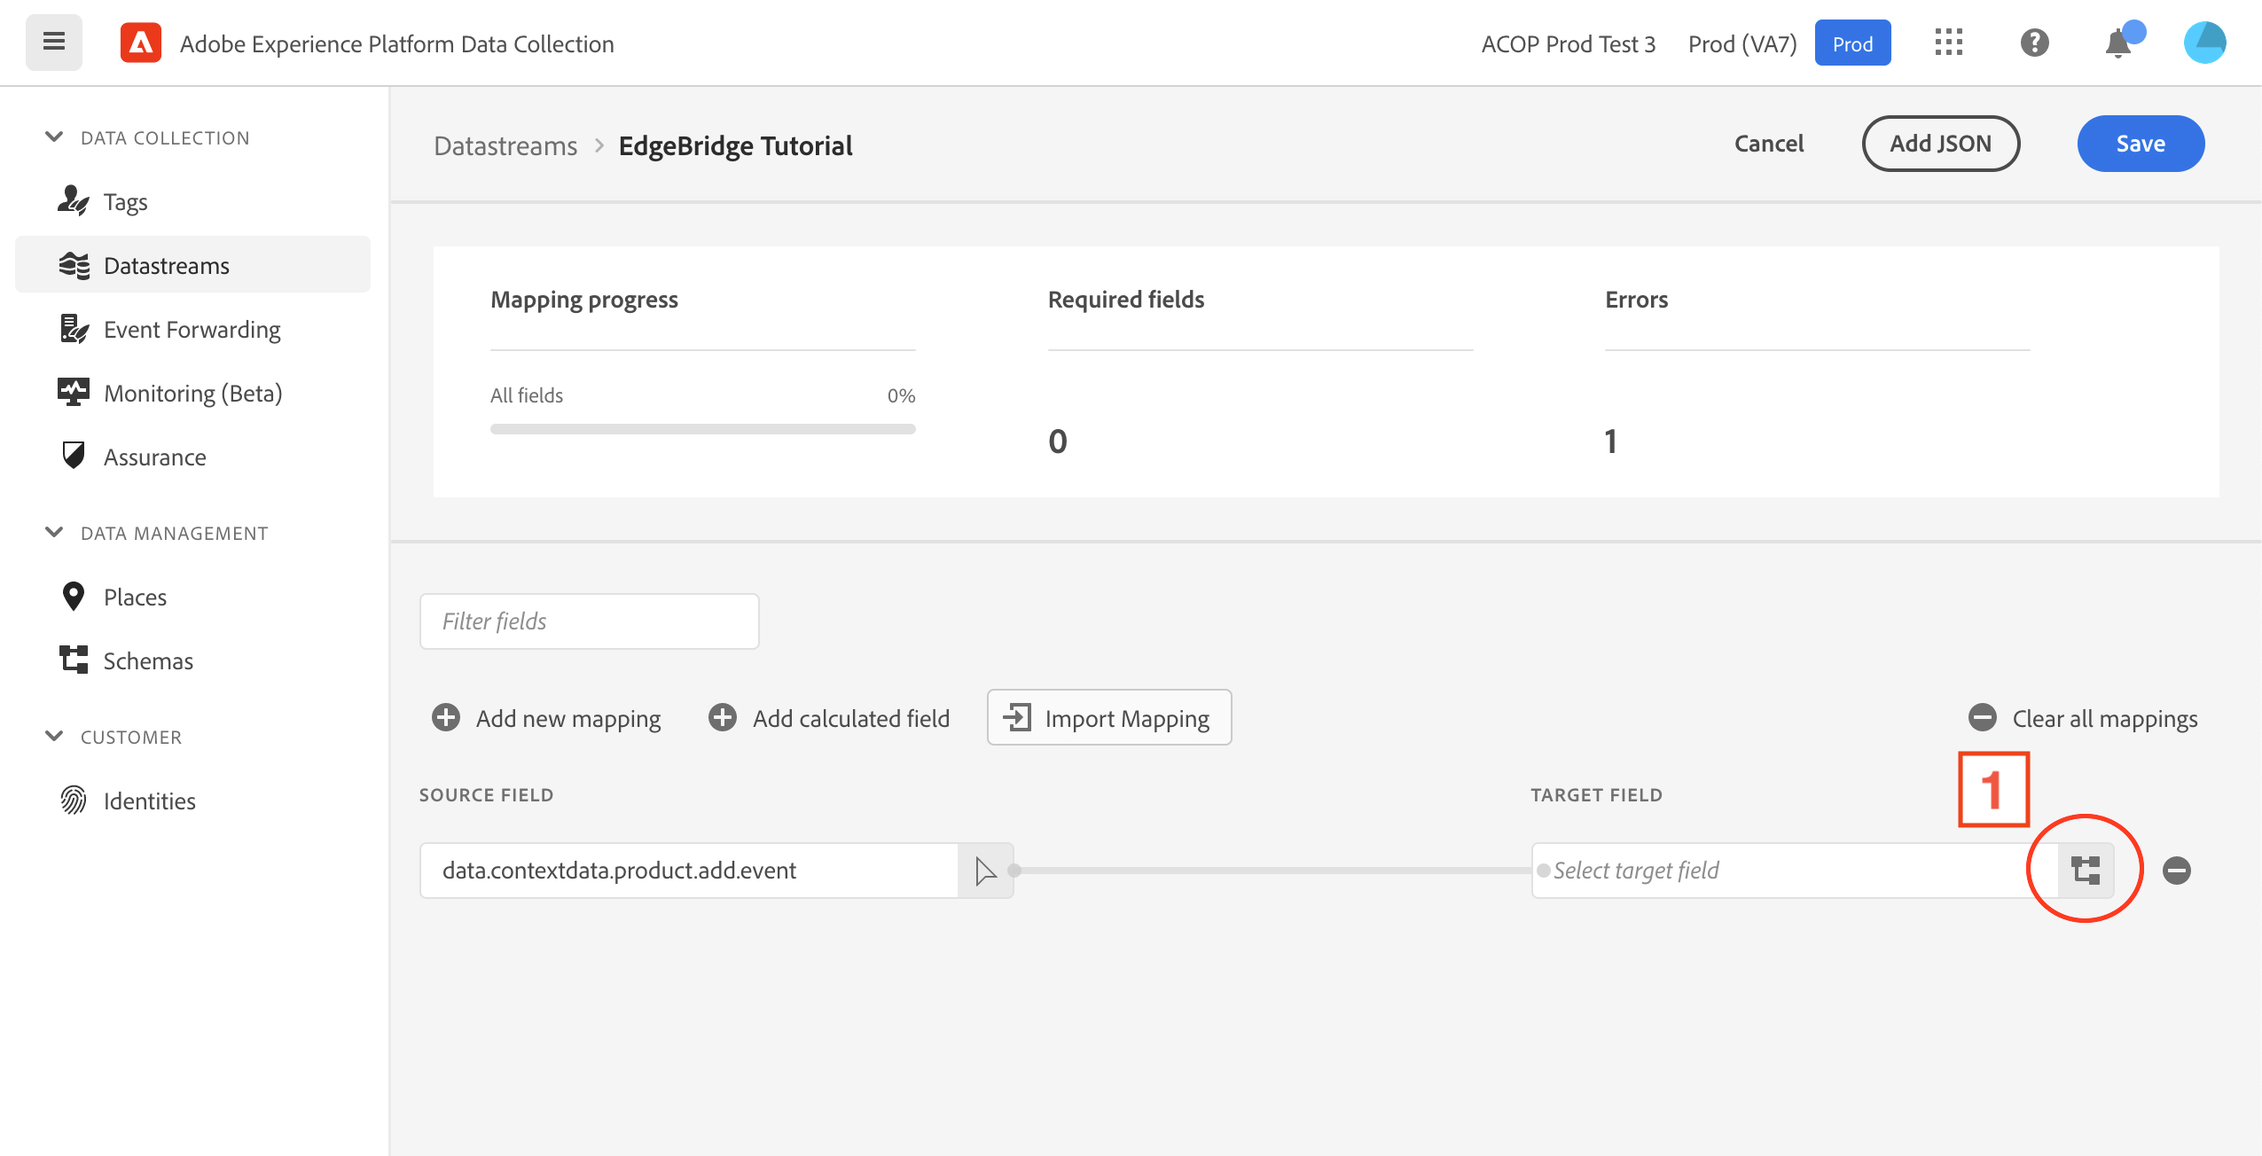
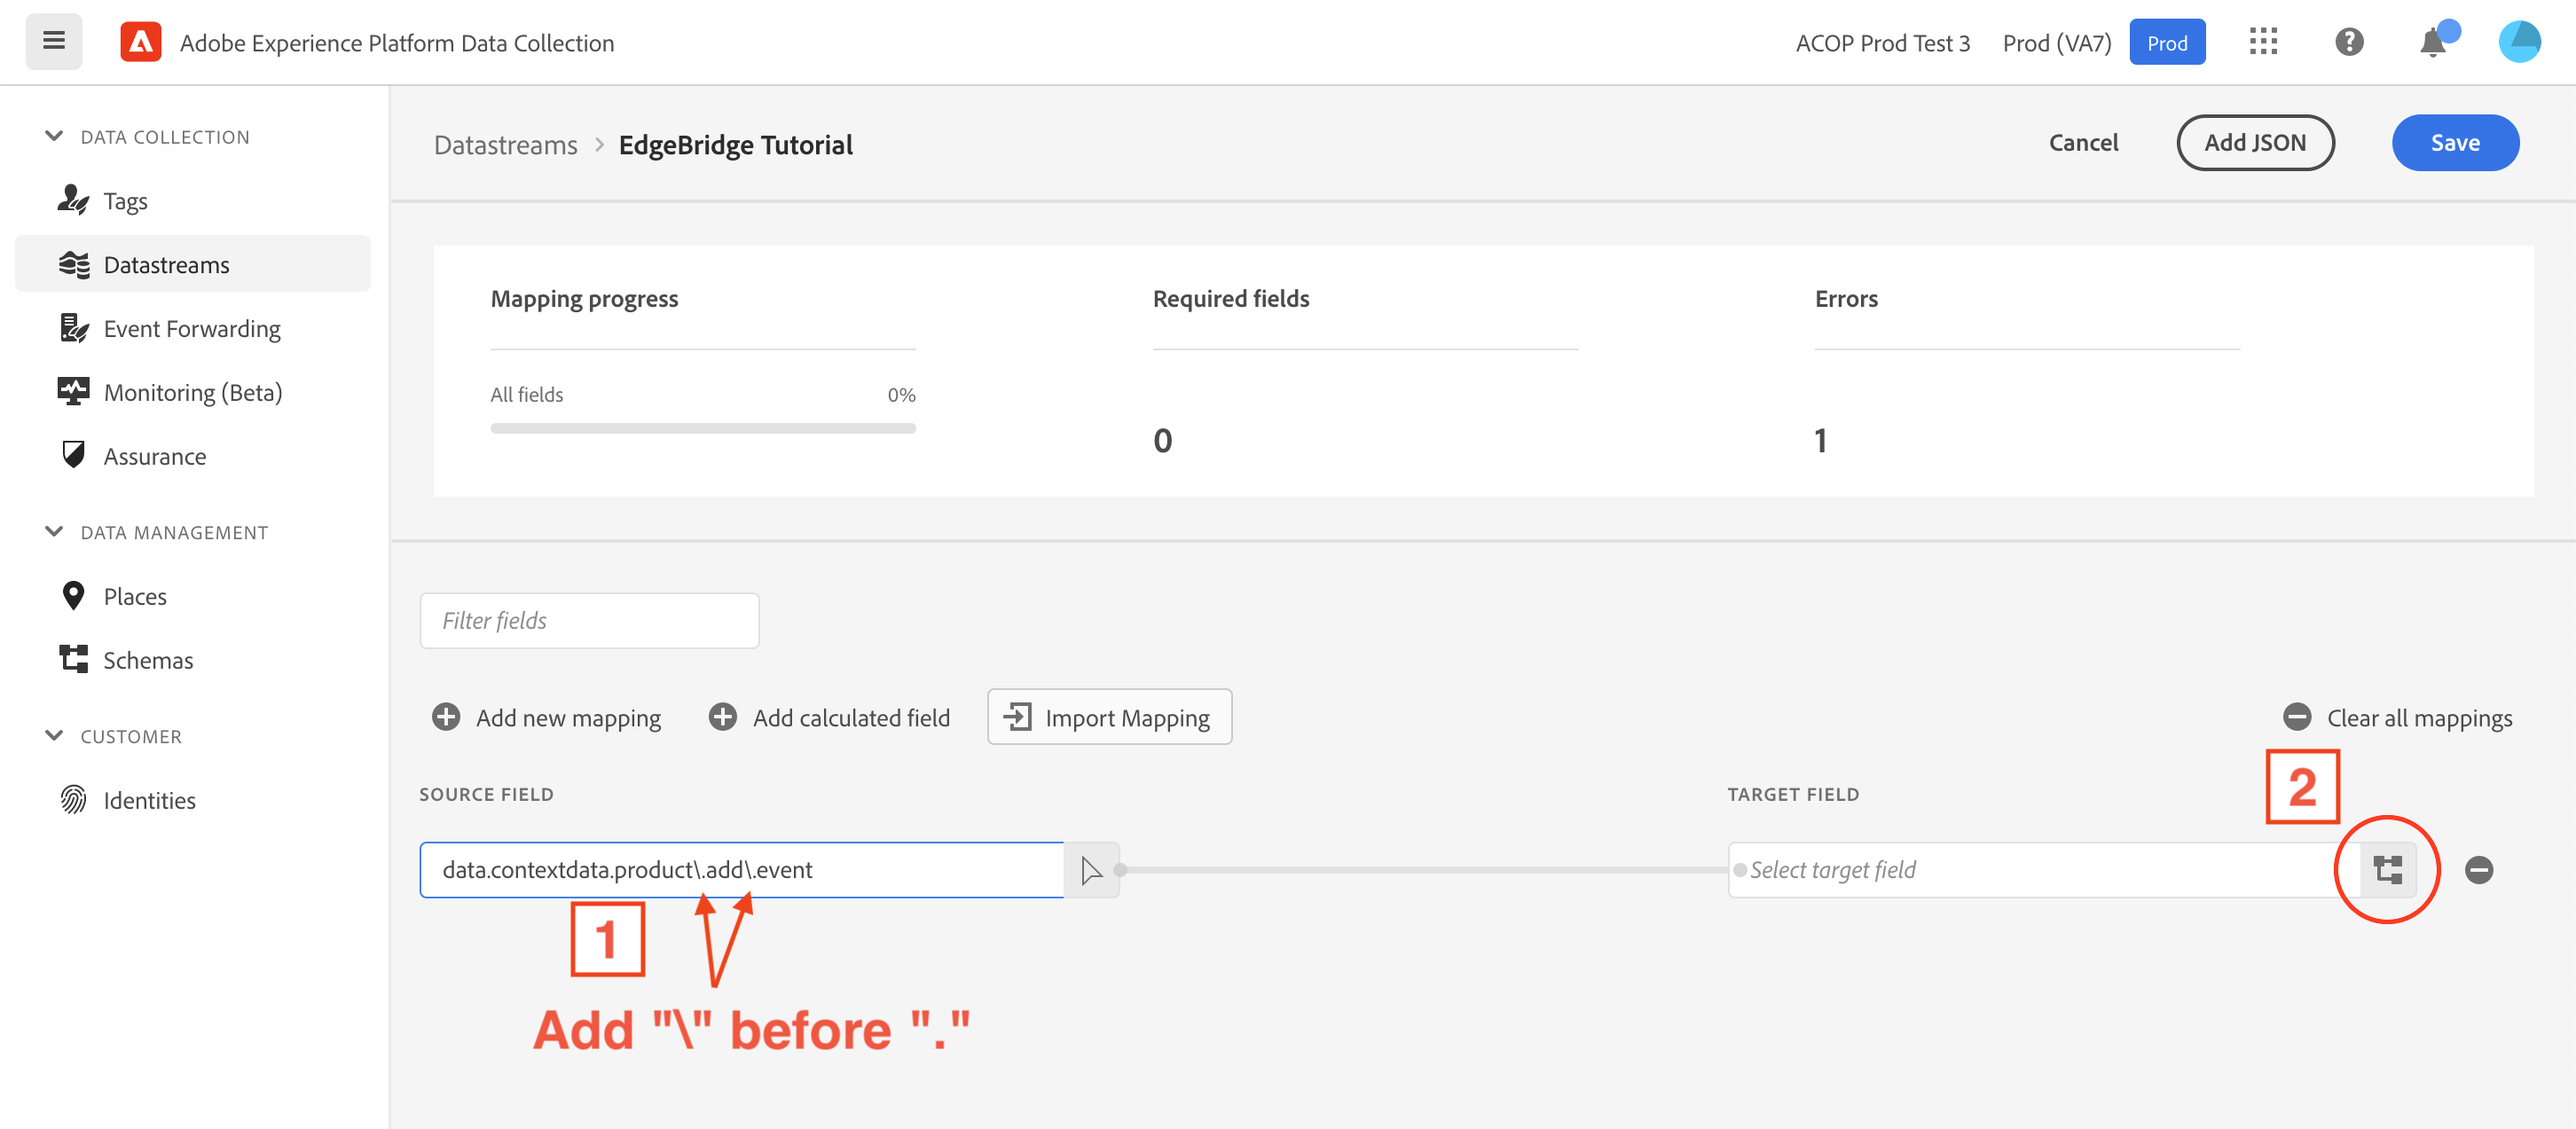
Test table checkmark formatting

diff --git a/Documentation/tutorials/edge-bridge-tutorial.md b/Documentation/tutorials/edge-bridge-tutorial.md
@@ -407,11 +407,40 @@ In the JSON property viewer window, click the dropdown arrows next to `data` (`1
 
 <img src="../assets/edge-bridge-tutorial/datastreams-select-property.png" alt="Select data from Edge Bridge event" width="1100"/>  
 
-Notice that in the property viewer, you can see the data hierarchy, where `data` is at the top, `contextdata` is one level down, and `product.add.event` is one level below that. This is nested data, which is a way to organize data in the JSON format. The data mapper interprets the `.` character as nesting, which means if there are `.` characters in a property name that are not meant to be nesting, namely the ones in our current example: `product.add.event`, we need to escape this behavior by adding backslashes `\` before the `.`.
+Notice that in the property viewer, you can see the data hierarchy, where `data` is at the top, `contextdata` is one level down, and `product.add.event` is one level below that. This is nested data, which is a way to organize data in the JSON format. The data mapper interprets the `.` character as nesting, which means if there are `.` characters in a property name that are not meant to be nesting, namely the ones in our current example: `product.add.event`, we need to escape this behavior by adding backslashes `\` before the `.` (`1`).
 
-Now, we need to map this JSON property from the Edge Bridge event to its matching property in the XDM schema. Click the schema icon (`1`) to open the XDM property viewer window.
+Now, we need to map this JSON property from the Edge Bridge event to its matching property in the XDM schema. Click the schema icon (`2`) to open the XDM property viewer window.
 
 <img src="../assets/edge-bridge-tutorial/datastreams-mapping-xdm.png" alt="Select data from Edge Bridge event" width="1100"/>  
+
+In the XDM property viewer window, click the dropdown arrows next to `commerce` (`1`) and `productListAdds` (`2`). Then select the `value` property (`3`) and click `Select` (`4`).
+
+<img src="../assets/edge-bridge-tutorial/datastreams-mapping-xdm-property.png" alt="Select data from Edge Bridge event" width="1100"/>  
+
+Repeat this process, adding new mappings for all of the other properties on the JSON data side (except for the `timestamp` property which is handled automatically by Edge), finalizing the mappings like this:
+
+| JSON Property  | XDM Property  | trackAction | trackState |
+| ------------- | ------------- | ----- | --- |
+| data.contextdata.product\\.add\\.event  | commerce.productListAdds.value  | <ul><li>[x]</li></ul> |
+| data.contextdata.product\\.view\\.event  | commerce.productListViews.value  | `trackState` |
+| data.contextdata.product\\.id  | productListItems.SKU  | `trackAction`, `trackState` |
+| data.contextdata.product\\.name  | productListItems.name  | `trackAction`, `trackState` |
+| data.contextdata.product\\.units  | productListItems.quantity  | `trackAction` |
+| data.contextdata.action  | productListItems.productAddMethod  | `trackAction` |
+| data.contextdata.state  | productListItems.productAddMethod  | `trackState` |
+
+<details>
+  <summary> <code>trackState</code> Example </summary><p>
+
+| JSON Property  | XDM Property  |
+| ------------- | ------------- |
+| data.contextdata.product\\.add\\.event  | commerce.productListAdds.value  |
+| data.contextdata.product\\.id  | productListItems.SKU  |
+| data.contextdata.product\\.name  | productListItems.name  |
+| data.contextdata.product\\.units  | productListItems.quantity  |
+| data.contextdata.action  | productListItems.productAddMethod  |
+
+</p></details>
 
 
 
